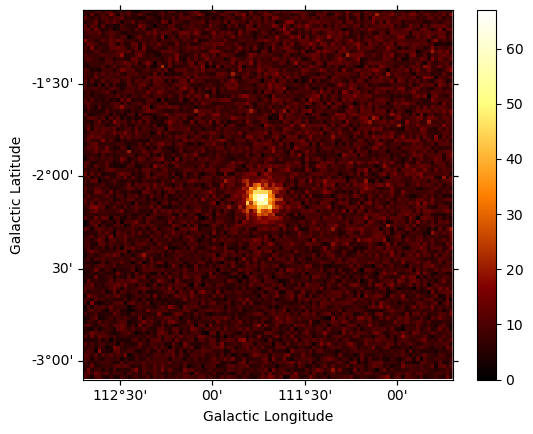
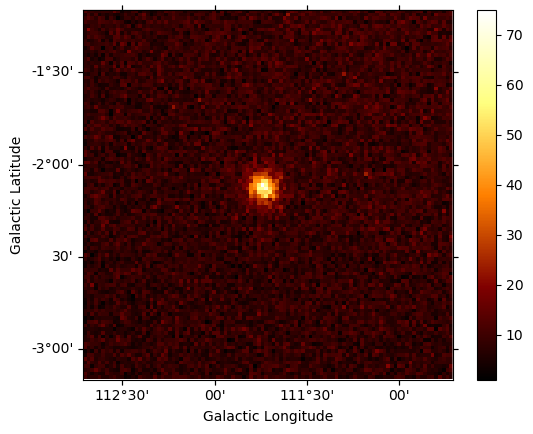
updated with v0.15

diff --git a/validation/cta-1dc/make.py b/validation/cta-1dc/make.py
@@ -14,7 +14,7 @@ from gammapy.modeling.models import PowerLawSpectralModel
 
 log = logging.getLogger(__name__)
 
-AVAILABLE_TARGETS = ["cas_a", "hess_j1702"]
+AVAILABLE_TARGETS = ["cas_a", "hess_j1702", "gc"]
 
 
 @click.group()

diff --git a/validation/cta-1dc/cas_a/cas_a_3d_bestfit.rst b/validation/cta-1dc/cas_a/cas_a_3d_bestfit.rst
@@ -1,12 +1,12 @@
 ========= ========== ========= ============== ========== ========= ======
      name      value     error           unit        min       max frozen
 ========= ========== ========= ============== ========== ========= ======
-    lon_0  1.117e+02 1.554e-03            deg        nan       nan  False
-    lat_0 -2.127e+00 1.529e-03            deg -9.000e+01 9.000e+01  False
-    index  2.775e+00 3.088e-02                       nan       nan  False
-amplitude  1.467e-12 6.306e-14 cm-2 s-1 TeV-1        nan       nan  False
+    lon_0  1.117e+02 1.558e-03            deg        nan       nan  False
+    lat_0 -2.127e+00 1.549e-03            deg -9.000e+01 9.000e+01  False
+    index  2.776e+00 3.091e-02                       nan       nan  False
+amplitude  1.466e-12 6.300e-14 cm-2 s-1 TeV-1        nan       nan  False
 reference  1.000e+00 0.000e+00            TeV        nan       nan   True
-     norm  9.913e-01 3.392e-03                 0.000e+00       nan  False
+     norm  9.921e-01 3.403e-03                 0.000e+00       nan  False
      tilt  0.000e+00 0.000e+00                       nan       nan   True
 reference  1.000e+00 0.000e+00            TeV        nan       nan   True
 ========= ========== ========= ============== ========== ========= ======

diff --git a/validation/cta-1dc/cas_a/README.md b/validation/cta-1dc/cas_a/README.md
@@ -15,22 +15,22 @@
    <tr>
     <td>lon_0</td>
     <td>111.734</td>
-    <td>111.7±0.001554</td>
+    <td>111.7±0.001558</td>
    </tr>
    <tr>
     <td>lat_0</td>
     <td>-2.129</td>
-    <td>-2.127±0.001529</td>
+    <td>-2.127±0.001549</td>
    </tr>
    <tr>
     <td>index</td>
     <td>2.75</td>
-    <td>2.775±0.03088</td>
+    <td>2.776±0.03091</td>
    </tr>
    <tr>
     <td>amplitude</td>
     <td>1.45e-12</td>
-    <td>1.467e-12±6.306e-14</td>
+    <td>1.466e-12±6.3e-14</td>
    </tr>
   </table>
  </body>

diff --git a/validation/cta-1dc/cas_a/spectral_comparison_table.md b/validation/cta-1dc/cas_a/spectral_comparison_table.md
@@ -15,22 +15,22 @@
    <tr>
     <td>lon_0</td>
     <td>111.734</td>
-    <td>111.7±0.001554</td>
+    <td>111.7±0.001558</td>
    </tr>
    <tr>
     <td>lat_0</td>
     <td>-2.129</td>
-    <td>-2.127±0.001529</td>
+    <td>-2.127±0.001549</td>
    </tr>
    <tr>
     <td>index</td>
     <td>2.75</td>
-    <td>2.775±0.03088</td>
+    <td>2.776±0.03091</td>
    </tr>
    <tr>
     <td>amplitude</td>
     <td>1.45e-12</td>
-    <td>1.467e-12±6.306e-14</td>
+    <td>1.466e-12±6.3e-14</td>
    </tr>
   </table>
  </body>
